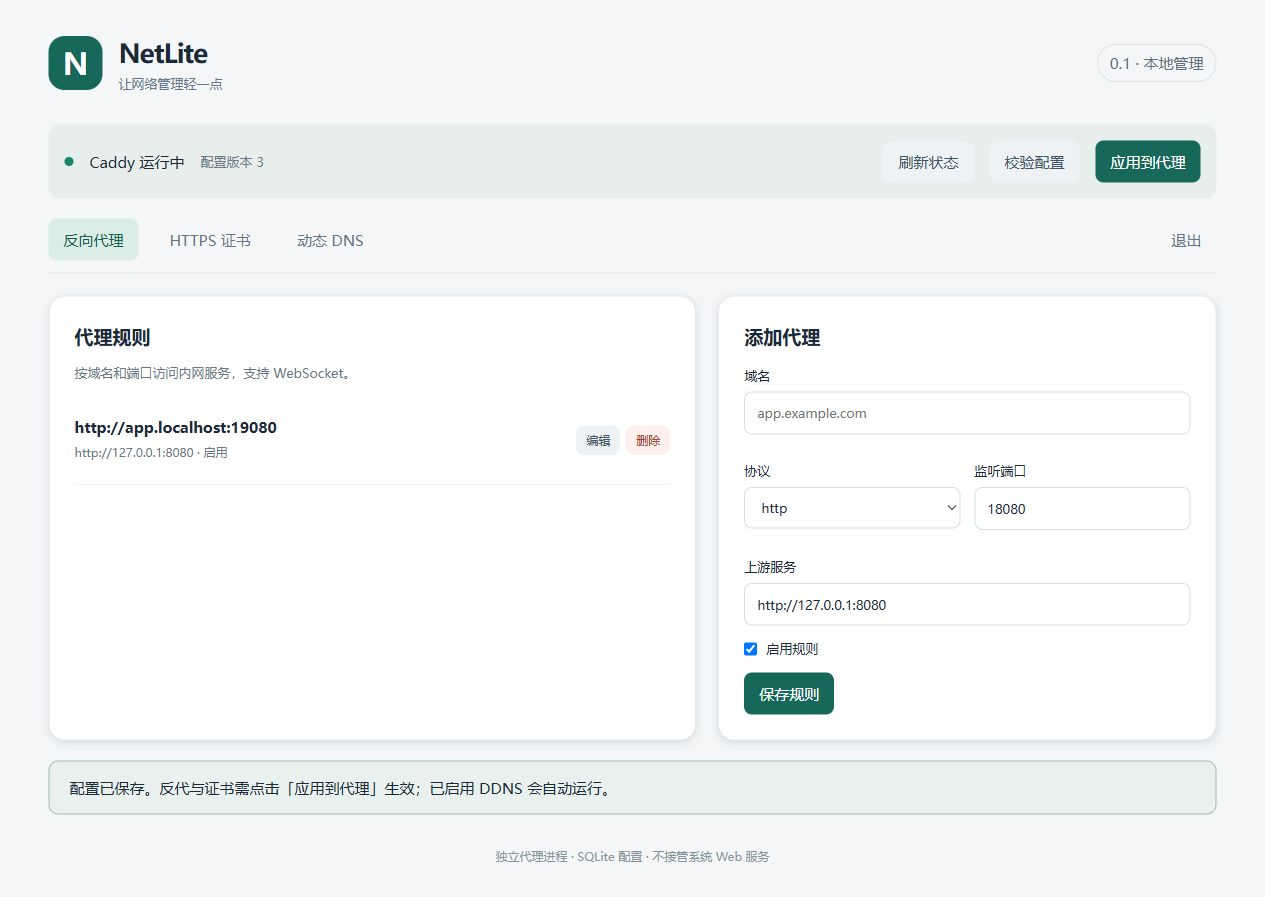
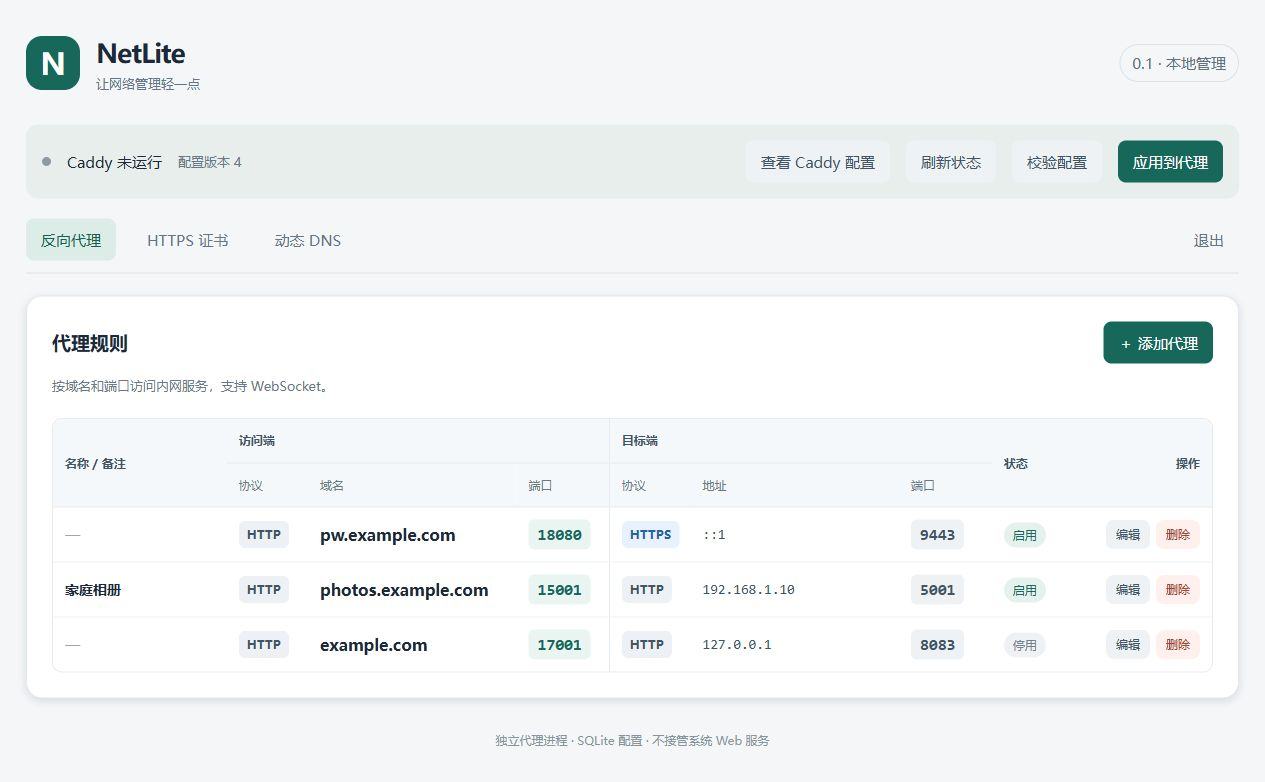
feat: improve proxy management UI and add Caddy configuration view

diff --git a/web/src/App.vue b/web/src/App.vue
@@ -1,43 +1,62 @@
 <script setup lang="ts">
-import {ref, onMounted} from 'vue'
-type Route={id:string;domain:string;port:number;scheme:string;upstream:string;certificate_id:string;enabled:boolean}
+import {ref, onMounted, nextTick} from 'vue'
+import {splitTarget, joinTarget} from './proxy-address'
+import {readAPIResponse} from './api-response'
+type Route={id:string;name?:string;domain:string;port:number;scheme:string;upstream:string;certificate_id:string;enabled:boolean}
 type Cert={id:string;domains:string[];mode:string;email:string;provider:string;token_env:string;staging:boolean}
 type DDNS={id:string;provider:string;zone_id:string;record_id:string;name:string;type:string;ip:string;token_env:string;interval_seconds:number;enabled:boolean}
 type Config={revision:number;routes:Route[];certificates:Cert[];ddns:DDNS[]}
 const token=ref(''),logged=ref(false),busy=ref(false),message=ref(''),tab=ref('routes'),status=ref<{proxy?:{running:boolean;modules?:string[]};ddns?:Record<string,{ok:boolean;message:string;ip:string;at:string}>}>({})
 const config=ref<Config>({revision:0,routes:[],certificates:[],ddns:[]})
 const route=ref<Route>(newRoute()),cert=ref<Cert>(newCert()),dns=ref<DDNS>(newDNS()),domains=ref(''),editing=ref(false)
+const target=ref(splitTarget(route.value.upstream))
+const editor=ref<HTMLDialogElement>(), viewer=ref<HTMLDialogElement>(), deletion=ref<HTMLDialogElement>()
+const copyMessage=ref('')
+const modalError=ref(''), viewError=ref(''), viewBusy=ref(false), viewTab=ref<'draft'|'applied'>('draft')
+const caddyView=ref<{draft:unknown;applied:unknown}>({draft:null,applied:null})
+const pendingDelete=ref<{kind:'routes'|'certificates'|'ddns';key:string;name:string}>()
+function closeEditor(){if(!busy.value)editor.value?.close()}
+async function openEditor(){modalError.value=''; await nextTick(); editor.value?.showModal();editor.value?.querySelector<HTMLElement>('select,input')?.focus()}
+function add(){editing.value=false;route.value=newRoute();target.value=splitTarget(route.value.upstream);cert.value=newCert();dns.value=newDNS();domains.value='';openEditor()}
+function askDelete(kind:'routes'|'certificates'|'ddns',key:string,name:string){pendingDelete.value={kind,key,name};modalError.value='';deletion.value?.showModal()}
+async function showCaddy(){viewer.value?.showModal();await loadCaddy()}
+async function loadCaddy(){copyMessage.value='';viewBusy.value=true;viewError.value='';try{caddyView.value=await api('/proxy/config')}catch(e){caddyView.value={draft:null,applied:null};viewError.value=e instanceof Error?e.message:String(e)}finally{viewBusy.value=false}}
+async function copyConfig(){try{await navigator.clipboard.writeText(JSON.stringify(caddyView.value[viewTab.value],null,2));copyMessage.value='配置已复制'}catch{viewError.value='浏览器不支持复制，请选择配置文本手动复制。'}}
 function logout(){logged.value=false;token.value='';sessionStorage.removeItem('netlite-token')}
 function id(){return Array.from(crypto.getRandomValues(new Uint8Array(8)),b=>b.toString(16).padStart(2,'0')).join('')}
-function newRoute():Route{return {id:id(),domain:'',port:18080,scheme:'http',upstream:'http://127.0.0.1:8080',certificate_id:'',enabled:true}}
+function newRoute():Route{return {id:id(),name:'',domain:'',port:18080,scheme:'http',upstream:'http://127.0.0.1:8080',certificate_id:'',enabled:true}}
 function newCert():Cert{return {id:id(),domains:[],mode:'internal',email:'',provider:'cloudflare',token_env:'NETLITE_CF_TOKEN',staging:true}}
 function newDNS():DDNS{return {id:id(),provider:'cloudflare',zone_id:'',record_id:'',name:'',type:'A',ip:'',token_env:'NETLITE_CF_TOKEN',interval_seconds:300,enabled:false}}
-async function api<T>(url:string,method='GET',body?:unknown):Promise<T>{const r=await fetch('/api'+url,{method,headers:{Authorization:'Bearer '+token.value,'Content-Type':'application/json'},body:body===undefined?undefined:JSON.stringify(body)});const result=await r.json();if(!r.ok)throw new Error(result.error||r.statusText);return result}
+async function api<T>(url:string,method='GET',body?:unknown):Promise<T>{const r=await fetch('/api'+url,{method,headers:{Authorization:'Bearer '+token.value,'Content-Type':'application/json'},body:body===undefined?undefined:JSON.stringify(body)});return readAPIResponse<T>(r,url)}
 async function action(fn:()=>Promise<void>){busy.value=true;message.value='';try{await fn()}catch(e){message.value=e instanceof Error?e.message:String(e)}finally{busy.value=false}}
 async function refresh(){status.value=await api('/status')}
 async function login(){await action(async()=>{config.value=await api('/config');logged.value=true;sessionStorage.setItem('netlite-token',token.value);await refresh()})}
 async function save(){config.value=await api('/config','PUT',config.value);message.value='配置已保存。反代与证书需点击「应用到代理」生效；已启用 DDNS 会自动运行。'}
-function editRoute(x:Route){route.value={...x};editing.value=true}
-function editCert(x:Cert){cert.value={...x,domains:[...x.domains]};domains.value=x.domains.join(', ');editing.value=true}
-function editDNS(x:DDNS){dns.value={...x};editing.value=true}
+function editRoute(x:Route){route.value={...x};target.value=splitTarget(x.upstream);editing.value=true;openEditor()}
+function editCert(x:Cert){cert.value={...x,domains:[...x.domains]};domains.value=x.domains.join(', ');editing.value=true;openEditor()}
+function editDNS(x:DDNS){dns.value={...x};editing.value=true;openEditor()}
 function upsert<T extends {id:string}>(list:T[],x:T){const i=list.findIndex(a=>a.id===x.id);if(i<0)list.push(x);else list[i]=x}
-async function submitRoute(){await action(async()=>{const old=JSON.parse(JSON.stringify(config.value));upsert(config.value.routes,{...route.value});try{await save();route.value=newRoute();editing.value=false}catch(e){config.value=old;throw e}})}
-async function submitCert(){await action(async()=>{const old=JSON.parse(JSON.stringify(config.value));upsert(config.value.certificates,{...cert.value,domains:domains.value.split(/[,\s]+/).filter(Boolean)});try{await save();cert.value=newCert();domains.value='';editing.value=false}catch(e){config.value=old;throw e}})}
-async function submitDNS(){await action(async()=>{const old=JSON.parse(JSON.stringify(config.value));upsert(config.value.ddns,{...dns.value});try{await save();dns.value=newDNS();editing.value=false}catch(e){config.value=old;throw e}})}
-async function remove(kind:'routes'|'certificates'|'ddns',key:string){await action(async()=>{const old=JSON.parse(JSON.stringify(config.value));config.value[kind]=config.value[kind].filter(x=>x.id!==key) as Route[]&Cert[]&DDNS[];try{await save()}catch(e){config.value=old;throw e}})}
+async function submitRoute(){modalError.value='';try{route.value.upstream=joinTarget(target.value)}catch(e){modalError.value=e instanceof Error?e.message:String(e);return}await action(async()=>{const old=JSON.parse(JSON.stringify(config.value));upsert(config.value.routes,{...route.value});try{await save();route.value=newRoute();editing.value=false;editor.value?.close()}catch(e){config.value=old;modalError.value=e instanceof Error?e.message:String(e);throw e}})}
+async function submitCert(){modalError.value='';await action(async()=>{const old=JSON.parse(JSON.stringify(config.value));upsert(config.value.certificates,{...cert.value,domains:domains.value.split(/[,\s]+/).filter(Boolean)});try{await save();cert.value=newCert();domains.value='';editing.value=false;editor.value?.close()}catch(e){config.value=old;modalError.value=e instanceof Error?e.message:String(e);throw e}})}
+async function submitDNS(){modalError.value='';await action(async()=>{const old=JSON.parse(JSON.stringify(config.value));upsert(config.value.ddns,{...dns.value});try{await save();dns.value=newDNS();editing.value=false;editor.value?.close()}catch(e){config.value=old;modalError.value=e instanceof Error?e.message:String(e);throw e}})}
+async function remove(kind:'routes'|'certificates'|'ddns',key:string){await action(async()=>{const old=JSON.parse(JSON.stringify(config.value));config.value[kind]=config.value[kind].filter(x=>x.id!==key) as Route[]&Cert[]&DDNS[];try{await save();deletion.value?.close()}catch(e){config.value=old;modalError.value=e instanceof Error?e.message:String(e);throw e}})}
 onMounted(()=>{token.value=sessionStorage.getItem('netlite-token')||'';if(token.value)login()})
 </script>
 <template>
  <main><header><div class="brand"><span class="logo">N</span><div><h1>NetLite</h1><p>让网络管理轻一点</p></div></div><span class="badge">0.1 · 本地管理</span></header>
  <section v-if="!logged" class="login card"><h2>进入管理面板</h2><p>输入应用私有数据目录中 admin-token 文件的管理令牌。</p><form @submit.prevent="login"><label>管理令牌<input v-model="token" type="password" autocomplete="current-password" required></label><button :disabled="busy">登录</button></form></section>
  <template v-else>
- <div class="toolbar"><span :class="['dot',status.proxy?.running?'on':'']"></span><span>Caddy {{status.proxy?.running?'运行中':'未运行'}}</span><span class="muted">配置版本 {{config.revision}}</span><button class="secondary" :disabled="busy" @click="action(refresh)">刷新状态</button><button class="secondary" :disabled="busy" @click="action(async()=>{await api('/proxy/validate','POST');message='配置校验通过'})">校验配置</button><button :disabled="busy" @click="action(async()=>{const r=await api<{applied_revision:number}>('/proxy/apply','POST');message='已应用版本 '+r.applied_revision+'；证书签发与续期由 Caddy 异步执行';await refresh()})">应用到代理</button></div>
+ <div class="toolbar"><span :class="['dot',status.proxy?.running?'on':'']"></span><span>Caddy {{status.proxy?.running?'运行中':'未运行'}}</span><span class="muted">配置版本 {{config.revision}}</span><button class="secondary" :disabled="busy" @click="showCaddy">查看 Caddy 配置</button><button class="secondary" :disabled="busy" @click="action(refresh)">刷新状态</button><button class="secondary" :disabled="busy" @click="action(async()=>{await api('/proxy/validate','POST');message='配置校验通过'})">校验配置</button><button :disabled="busy" @click="action(async()=>{const r=await api<{applied_revision:number}>('/proxy/apply','POST');message='已应用版本 '+r.applied_revision+'；证书签发与续期由 Caddy 异步执行';await refresh()})">应用到代理</button></div>
  <nav><button v-for="[key,title] in [['routes','反向代理'],['certificates','HTTPS 证书'],['ddns','动态 DNS']]" :class="{active:tab===key}" @click="tab=key!;editing=false">{{title}}</button><button class="logout" @click="logout">退出</button></nav>
- <div v-if="tab==='routes'" class="grid"><section class="card"><h2>代理规则</h2><p class="muted">按域名和端口访问内网服务，支持 WebSocket。</p><p v-if="!config.routes.length" class="empty">还没有规则，从右侧添加第一个服务。</p><article v-for="r in config.routes" :key="r.id"><div><strong>{{r.scheme}}://{{r.domain}}:{{r.port}}</strong><p>{{r.upstream}} · {{r.enabled?'启用':'停用'}}</p></div><div class="small-actions"><button class="secondary" @click="editRoute(r)">编辑</button><button class="danger" :disabled="busy" @click="remove('routes',r.id)">删除</button></div></article></section>
- <section class="card"><h2>{{editing?'编辑':'添加'}}代理</h2><form @submit.prevent="submitRoute"><label>域名<input v-model="route.domain" placeholder="app.example.com" required></label><div class="fields"><label>协议<select v-model="route.scheme"><option>http</option><option>https</option></select></label><label>监听端口<input v-model.number="route.port" type="number" min="1024" max="65535" required></label></div><label>上游服务<input v-model="route.upstream" required></label><label v-if="route.scheme==='https'">证书策略<select v-model="route.certificate_id" required><option value="">请选择覆盖该域名的证书</option><option v-for="c in config.certificates" :value="c.id">{{c.domains.join(', ')}}</option></select></label><label class="check"><input v-model="route.enabled" type="checkbox">启用规则</label><button :disabled="busy">保存规则</button></form></section></div>
- <div v-if="tab==='certificates'" class="grid"><section class="card"><h2>证书策略</h2><p class="muted">Caddy 自动签发和续期。DNS-01 泛域名需要对应插件和凭据。</p><article v-for="c in config.certificates" :key="c.id"><div><strong>{{c.domains.join(', ')}}</strong><p>{{c.mode}} {{c.mode!=='internal'?(c.staging?'· 测试 CA':'· 正式 CA'):''}}</p></div><div class="small-actions"><button class="secondary" @click="editCert(c)">编辑</button><button class="danger" :disabled="busy" @click="remove('certificates',c.id)">删除</button></div></article><aside>应用成功仅表示配置生效。签发失败和续期信息见应用数据目录 caddy.log。内部证书需客户端自行信任。</aside></section>
- <section class="card"><h2>{{editing?'编辑':'添加'}}证书策略</h2><form @submit.prevent="submitCert"><label>域名（逗号分隔）<input v-model="domains" placeholder="*.example.com, example.com" required></label><label>签发方式<select v-model="cert.mode"><option value="internal">内部 CA（本地测试）</option><option value="acme">ACME（HTTP / TLS-ALPN）</option><option value="dns">DNS-01（Cloudflare 插件）</option></select></label><label v-if="cert.mode!=='internal'">联系邮箱<input v-model="cert.email" type="email"></label><label v-if="cert.mode==='dns'">令牌环境变量名<input v-model="cert.token_env" required></label><label v-if="cert.mode!=='internal'" class="check"><input v-model="cert.staging" type="checkbox">使用 Let's Encrypt 测试 CA</label><p class="muted">ACME 端口验证需公网 80/443 映射到应用端口。DNS-01 无需开放验证端口。</p><button :disabled="busy">保存策略</button></form></section></div>
- <div v-if="tab==='ddns'" class="grid"><section class="card"><h2>动态 DNS</h2><p class="muted">Cloudflare A / AAAA 记录定时同步，保留现有 TTL 和代理开关。</p><article v-for="d in config.ddns" :key="d.id"><div><strong>{{d.name}} · {{d.type}}</strong><p>{{d.enabled?'启用':'停用'}} · 每 {{d.interval_seconds}} 秒</p><p v-if="status.ddns?.[d.id]">{{status.ddns[d.id]?.ok?'✓':'!'}} {{status.ddns[d.id]?.message}} {{status.ddns[d.id]?.ip}}</p></div><div class="small-actions"><button class="secondary" @click="editDNS(d)">编辑</button><button class="secondary" :disabled="busy||!d.enabled" @click="action(async()=>{await api('/ddns/'+d.id+'/run','POST');await refresh();message='DDNS 已执行，请查看结果'})">立即同步</button><button class="danger" :disabled="busy" @click="remove('ddns',d.id)">删除</button></div></article></section>
- <section class="card"><h2>{{editing?'编辑':'添加'}} DDNS</h2><form @submit.prevent="submitDNS"><label>记录域名<input v-model="dns.name" required></label><div class="fields"><label>记录类型<select v-model="dns.type"><option>A</option><option>AAAA</option></select></label><label>更新间隔（秒）<input v-model.number="dns.interval_seconds" type="number" min="60" max="86400" required></label></div><label>Zone ID<input v-model="dns.zone_id" required></label><label>Record ID<input v-model="dns.record_id" required></label><label>令牌环境变量名<input v-model="dns.token_env" required></label><label>指定 IP（留空自动发现）<input v-model="dns.ip" placeholder="自动发现 IPv4 / IPv6 公网地址"></label><label class="check"><input v-model="dns.enabled" type="checkbox">保存后启用自动更新</label><p class="muted">凭据在启动环境中配置；界面不存储 API 密钥。</p><button :disabled="busy">保存 DDNS</button></form></section></div>
+ <div v-if="tab==='routes'" class="content-list"><section class="card"><div class="section-head"><h2>代理规则</h2><button :disabled="busy" @click="add">＋ 添加代理</button></div><p class="muted">按域名和端口访问内网服务，支持 WebSocket。</p><p v-if="!config.routes.length" class="empty">还没有规则，点击「添加代理」开始。</p><div v-if="config.routes.length" class="proxy-table-wrap" tabindex="0" aria-label="代理规则表格，窄屏可左右滚动"><table class="proxy-table"><colgroup><col class="name-col"><col class="protocol-col"><col class="address-col"><col class="port-col"><col class="protocol-col"><col class="address-col"><col class="port-col"><col class="status-col"><col class="actions-col"></colgroup><thead><tr class="group-heading"><th scope="col" rowspan="2">名称 / 备注</th><th scope="colgroup" colspan="3">访问端</th><th scope="colgroup" colspan="3" class="target-start">目标端</th><th scope="col" rowspan="2">状态</th><th scope="col" rowspan="2" class="actions-heading">操作</th></tr><tr><th scope="col">协议</th><th scope="col">域名</th><th scope="col">端口</th><th scope="col" class="target-start">协议</th><th scope="col">地址</th><th scope="col">端口</th></tr></thead><tbody><tr v-for="r in config.routes" :key="r.id"><td><span :class="['route-name',{unnamed:!r.name}]">{{r.name || '—'}}</span></td><td><span :class="['protocol-badge',r.scheme]">{{r.scheme.toUpperCase()}}</span></td><td><strong class="domain-name">{{r.domain}}</strong></td><td><span class="port-number">{{r.port}}</span></td><td class="target-start"><span :class="['protocol-badge',splitTarget(r.upstream).scheme]">{{splitTarget(r.upstream).scheme.toUpperCase()}}</span></td><td><span class="target-address">{{splitTarget(r.upstream).address}}</span></td><td><span class="port-number target-port">{{splitTarget(r.upstream).port}}</span></td><td><span :class="['route-status',r.enabled?'enabled':'disabled']">{{r.enabled?'启用':'停用'}}</span></td><td><div class="small-actions"><button class="secondary" :disabled="busy" :aria-label="'编辑 '+r.domain+':'+r.port" @click="editRoute(r)">编辑</button><button class="danger" :disabled="busy" :aria-label="'删除 '+r.domain+':'+r.port" @click="askDelete('routes',r.id,(r.name?r.name+' · ':'')+r.domain+':'+r.port)">删除</button></div></td></tr></tbody></table></div></section>
+ </div>
+ <div v-if="tab==='certificates'" class="content-list"><section class="card"><div class="section-head"><h2>证书策略</h2><button :disabled="busy" @click="add">＋ 添加证书</button></div><p class="muted">Caddy 自动签发和续期。DNS-01 泛域名需要对应插件和凭据。</p><p v-if="!config.certificates.length" class="empty">暂无内容，点击上方添加按钮开始。</p><article v-for="c in config.certificates" :key="c.id"><div><strong>{{c.domains.join(', ')}}</strong><p>{{c.mode}} {{c.mode!=='internal'?(c.staging?'· 测试 CA':'· 正式 CA'):''}}</p></div><div class="small-actions"><button class="secondary" @click="editCert(c)">编辑</button><button class="danger" :disabled="busy" @click="askDelete('certificates',c.id,c.domains.join(', '))">删除</button></div></article><aside>应用成功仅表示配置生效。签发失败和续期信息见应用数据目录 caddy.log。内部证书需客户端自行信任。</aside></section>
+ </div>
+ <div v-if="tab==='ddns'" class="content-list"><section class="card"><div class="section-head"><h2>动态 DNS</h2><button :disabled="busy" @click="add">＋ 添加 DDNS</button></div><p class="muted">Cloudflare A / AAAA 记录定时同步，保留现有 TTL 和代理开关。</p><p v-if="!config.ddns.length" class="empty">暂无内容，点击上方添加按钮开始。</p><article v-for="d in config.ddns" :key="d.id"><div><strong>{{d.name}} · {{d.type}}</strong><p>{{d.enabled?'启用':'停用'}} · 每 {{d.interval_seconds}} 秒</p><p v-if="status.ddns?.[d.id]">{{status.ddns[d.id]?.ok?'✓':'!'}} {{status.ddns[d.id]?.message}} {{status.ddns[d.id]?.ip}}</p></div><div class="small-actions"><button class="secondary" @click="editDNS(d)">编辑</button><button class="secondary" :disabled="busy||!d.enabled" @click="action(async()=>{await api('/ddns/'+d.id+'/run','POST');await refresh();message='DDNS 已执行，请查看结果'})">立即同步</button><button class="danger" :disabled="busy" @click="askDelete('ddns',d.id,d.name)">删除</button></div></article></section>
+ </div>
+
+ <dialog ref="editor" class="editor-dialog" aria-labelledby="editor-title" @cancel="busy && $event.preventDefault()"><section v-if="tab==='routes'"><div class="dialog-head"><h2 id="editor-title">{{editing?'编辑':'添加'}}代理</h2><button type="button" class="icon-button" aria-label="关闭" :disabled="busy" @click="closeEditor">×</button></div><form @submit.prevent="submitRoute"><label>名称 / 备注（选填）<input v-model="route.name" placeholder="例如：家庭相册、下载工具"></label><fieldset class="endpoint-fields"><legend>访问端</legend><div class="endpoint-row"><label>访问协议<select v-model="route.scheme"><option value="http">HTTP</option><option value="https">HTTPS</option></select></label><label>访问域名<input v-model="route.domain" placeholder="app.example.com" required></label><label>访问端口<input v-model.number="route.port" type="number" min="1024" max="65535" required></label></div></fieldset><fieldset class="endpoint-fields"><legend>目标端</legend><div class="endpoint-row"><label>目标协议<select v-model="target.scheme"><option value="http">HTTP</option><option value="https">HTTPS</option></select></label><label>目标地址<input v-model="target.address" placeholder="192.168.1.10 或 service.local" required></label><label>目标端口<input v-model.number="target.port" type="number" min="1" max="65535" required></label></div><p class="muted">目标地址填写实际提供服务的 IP 或域名。127.0.0.1 表示运行 NetLite 的这台设备。</p></fieldset><label v-if="route.scheme==='https'">证书策略<select v-model="route.certificate_id" required><option value="">请选择覆盖该域名的证书</option><option v-for="c in config.certificates" :value="c.id">{{c.domains.join(', ')}}</option></select></label><label class="check"><input v-model="route.enabled" type="checkbox">启用规则</label><p v-if="modalError" class="form-error" role="alert">{{modalError}}</p><div class="dialog-actions"><button type="button" class="secondary" :disabled="busy" @click="closeEditor">取消</button><button :disabled="busy">保存规则</button></div></form></section><section v-if="tab==='certificates'"><div class="dialog-head"><h2 id="editor-title">{{editing?'编辑':'添加'}}证书策略</h2><button type="button" class="icon-button" aria-label="关闭" :disabled="busy" @click="closeEditor">×</button></div><form @submit.prevent="submitCert"><label>域名（逗号分隔）<input v-model="domains" placeholder="*.example.com, example.com" required></label><label>签发方式<select v-model="cert.mode"><option value="internal">内部 CA（本地测试）</option><option value="acme">ACME（HTTP / TLS-ALPN）</option><option value="dns">DNS-01（Cloudflare 插件）</option></select></label><label v-if="cert.mode!=='internal'">联系邮箱<input v-model="cert.email" type="email"></label><label v-if="cert.mode==='dns'">令牌环境变量名<input v-model="cert.token_env" required></label><label v-if="cert.mode!=='internal'" class="check"><input v-model="cert.staging" type="checkbox">使用 Let's Encrypt 测试 CA</label><p class="muted">ACME 端口验证需公网 80/443 映射到应用端口。DNS-01 无需开放验证端口。</p><p v-if="modalError" class="form-error" role="alert">{{modalError}}</p><div class="dialog-actions"><button type="button" class="secondary" :disabled="busy" @click="closeEditor">取消</button><button :disabled="busy">保存策略</button></div></form></section><section v-if="tab==='ddns'"><div class="dialog-head"><h2 id="editor-title">{{editing?'编辑':'添加'}} DDNS</h2><button type="button" class="icon-button" aria-label="关闭" :disabled="busy" @click="closeEditor">×</button></div><form @submit.prevent="submitDNS"><label>记录域名<input v-model="dns.name" required></label><div class="fields"><label>记录类型<select v-model="dns.type"><option>A</option><option>AAAA</option></select></label><label>更新间隔（秒）<input v-model.number="dns.interval_seconds" type="number" min="60" max="86400" required></label></div><label>Zone ID<input v-model="dns.zone_id" required></label><label>Record ID<input v-model="dns.record_id" required></label><label>令牌环境变量名<input v-model="dns.token_env" required></label><label>指定 IP（留空自动发现）<input v-model="dns.ip" placeholder="自动发现 IPv4 / IPv6 公网地址"></label><label class="check"><input v-model="dns.enabled" type="checkbox">保存后启用自动更新</label><p class="muted">凭据在启动环境中配置；界面不存储 API 密钥。</p><p v-if="modalError" class="form-error" role="alert">{{modalError}}</p><div class="dialog-actions"><button type="button" class="secondary" :disabled="busy" @click="closeEditor">取消</button><button :disabled="busy">保存 DDNS</button></div></form></section></dialog>
+ <dialog ref="deletion" class="delete-dialog" aria-labelledby="delete-title" @cancel="busy && $event.preventDefault()"><div class="dialog-head"><h2 id="delete-title">确认删除</h2></div><p>确定删除「{{pendingDelete?.name}}」？</p><p class="muted">{{pendingDelete?.kind==='ddns'?'删除后将停止该记录的自动更新。':'删除后需应用到代理，反代与证书的变更才会生效。'}}</p><p v-if="modalError" class="form-error" role="alert">{{modalError}}</p><div class="dialog-actions"><button class="secondary" :disabled="busy" @click="deletion?.close()">取消</button><button class="danger" :disabled="busy" @click="pendingDelete && remove(pendingDelete.kind,pendingDelete.key)">确认删除</button></div></dialog>
+ <dialog ref="viewer" class="config-dialog" aria-labelledby="config-title"><div class="dialog-head"><h2 id="config-title">Caddy 配置</h2><button class="icon-button" aria-label="关闭配置" @click="viewer?.close()">×</button></div><p class="muted">草稿由当前保存的规则生成；已应用配置为最近成功应用后保存的配置。凭据已隐藏。</p><div class="config-toolbar"><button :class="['secondary',{selected:viewTab==='draft'}]" @click="viewTab='draft'">配置草稿</button><button :class="['secondary',{selected:viewTab==='applied'}]" @click="viewTab='applied'">已应用配置</button><button class="secondary" :disabled="viewBusy" @click="loadCaddy">刷新</button><button class="secondary" :disabled="viewBusy||!caddyView[viewTab]" @click="copyConfig">复制配置</button></div><p v-if="copyMessage" class="muted" role="status">{{copyMessage}}</p><p v-if="viewError" class="form-error" role="alert">{{viewError}}</p><p v-if="viewBusy" class="empty">正在加载配置…</p><pre v-else-if="caddyView[viewTab]" tabindex="0">{{JSON.stringify(caddyView[viewTab],null,2)}}</pre><p v-else-if="!viewError" class="empty">{{viewTab==='applied'?'尚未应用过配置。':'暂无配置草稿。'}}</p><div class="dialog-actions"><button @click="viewer?.close()">关闭</button></div></dialog>
  </template><div v-if="message" class="message" role="status">{{message}}</div><footer>独立代理进程 · SQLite 配置 · 不接管系统 Web 服务</footer></main>
 </template>

diff --git a/web/src/style.css b/web/src/style.css
@@ -1,1 +1,11 @@
-*{box-sizing:border-box}body{margin:0;background:#f4f6f8;color:#1d2939;font:15px/1.6 Inter,"Microsoft YaHei",sans-serif}main{max-width:1220px;margin:auto;padding:32px 26px}header,.brand,.toolbar,article,nav{display:flex;align-items:center;gap:16px}header{justify-content:space-between;margin-bottom:30px}.logo{display:grid;place-items:center;background:#17675b;color:white;border-radius:16px;width:54px;height:54px;font-size:30px;font-weight:700}h1{margin:0;font-size:26px;letter-spacing:-1px}h2{font-size:19px;margin:0 0 10px}p{margin:5px 0 14px}.brand p{margin:0;color:#64748b;font-size:13px}.badge{border:1px solid #dae3e8;padding:6px 12px;border-radius:30px;color:#617080}.toolbar{flex-wrap:wrap;background:#e7eeec;border-radius:12px;padding:16px;margin-bottom:20px}.dot{width:9px;height:9px;border-radius:50%;background:#8c9aa5}.dot.on{background:#19856c}.muted{color:#697786;font-size:13px}.toolbar .muted{margin-right:auto}.grid{display:grid;grid-template-columns:1.3fr 1fr;gap:22px}.card{background:white;border:1px solid #e3e8ed;border-radius:16px;padding:25px;box-shadow:0 2px 8px #1232}.login{max-width:480px;margin:70px auto}nav{margin-bottom:22px;border-bottom:1px solid #dce3e8;padding-bottom:12px}nav button{background:transparent;color:#657487}nav .active{background:#dcece6;color:#145f50}nav .logout{margin-left:auto}button{font:inherit;background:#17675b;color:white;border:0;border-radius:8px;padding:9px 15px;cursor:pointer}button:disabled{opacity:.5;cursor:wait}button.secondary{background:#eef2f5;color:#405465}.danger{background:#fff0ed;color:#a33f31}.small-actions{display:flex;gap:6px;flex-wrap:wrap}.small-actions button{padding:5px 10px;font-size:12px}article{justify-content:space-between;border-bottom:1px solid #eef0f2;padding:18px 0;overflow-wrap:anywhere}article p{font-size:12px;color:#697786;margin:4px 0}label{display:block;font-size:13px;font-weight:500;margin:13px 0}input,select{display:block;width:100%;font:inherit;border:1px solid #d5dee5;border-radius:8px;padding:10px 12px;margin-top:6px;background:white;color:#1d2939}input:focus,select:focus{outline:2px solid #98c7b6;border-color:transparent}.fields{display:flex;gap:14px}.fields label{flex:1;min-width:0}.check{display:flex;align-items:center;gap:9px}.check input{width:auto;margin:0}aside,.empty{background:#f5f8fa;border-radius:10px;padding:16px;color:#67788a;font-size:13px;margin-top:20px}.message{background:#e8f1ed;border:1px solid #a1bcb0;border-radius:10px;padding:14px 20px;margin-top:20px;white-space:pre-wrap}footer{text-align:center;color:#8794a0;font-size:12px;margin-top:32px}@media(max-width:820px){.grid{grid-template-columns:1fr}.toolbar{gap:10px}main{padding:20px 14px}.badge{display:none}article{align-items:flex-start;flex-direction:column}}
+*{box-sizing:border-box}body{margin:0;background:#f4f6f8;color:#1d2939;font:15px/1.6 Inter,"Microsoft YaHei",sans-serif}main{max-width:1440px;margin:auto;padding:32px 26px}header,.brand,.toolbar,article,nav{display:flex;align-items:center;gap:16px}header{justify-content:space-between;margin-bottom:30px}.logo{display:grid;place-items:center;background:#17675b;color:white;border-radius:16px;width:54px;height:54px;font-size:30px;font-weight:700}h1{margin:0;font-size:26px;letter-spacing:-1px}h2{font-size:19px;margin:0 0 10px}p{margin:5px 0 14px}.brand p{margin:0;color:#64748b;font-size:13px}.badge{border:1px solid #dae3e8;padding:6px 12px;border-radius:30px;color:#617080}.toolbar{flex-wrap:wrap;background:#e7eeec;border-radius:12px;padding:16px;margin-bottom:20px}.dot{width:9px;height:9px;border-radius:50%;background:#8c9aa5}.dot.on{background:#19856c}.muted{color:#697786;font-size:13px}.toolbar .muted{margin-right:auto}.grid{display:grid;grid-template-columns:1.3fr 1fr;gap:22px}.card{background:white;border:1px solid #e3e8ed;border-radius:16px;padding:25px;box-shadow:0 2px 8px #1232}.login{max-width:480px;margin:70px auto}nav{margin-bottom:22px;border-bottom:1px solid #dce3e8;padding-bottom:12px}nav button{background:transparent;color:#657487}nav .active{background:#dcece6;color:#145f50}nav .logout{margin-left:auto}button{font:inherit;background:#17675b;color:white;border:0;border-radius:8px;padding:9px 15px;cursor:pointer}button:disabled{opacity:.5;cursor:wait}button.secondary{background:#eef2f5;color:#405465}.danger{background:#fff0ed;color:#a33f31}.small-actions{display:flex;gap:6px;flex-wrap:wrap}.small-actions button{padding:5px 10px;font-size:12px}article{justify-content:space-between;border-bottom:1px solid #eef0f2;padding:18px 0;overflow-wrap:anywhere}article p{font-size:12px;color:#697786;margin:4px 0}label{display:block;font-size:13px;font-weight:500;margin:13px 0}input,select{display:block;width:100%;font:inherit;border:1px solid #d5dee5;border-radius:8px;padding:10px 12px;margin-top:6px;background:white;color:#1d2939}input:focus,select:focus{outline:2px solid #98c7b6;border-color:transparent}.fields{display:flex;gap:14px}.fields label{flex:1;min-width:0}.check{display:flex;align-items:center;gap:9px}.check input{width:auto;margin:0}aside,.empty{background:#f5f8fa;border-radius:10px;padding:16px;color:#67788a;font-size:13px;margin-top:20px}.message{background:#e8f1ed;border:1px solid #a1bcb0;border-radius:10px;padding:14px 20px;margin-top:20px;white-space:pre-wrap}footer{text-align:center;color:#8794a0;font-size:12px;margin-top:32px}@media(max-width:820px){.grid{grid-template-columns:1fr}.toolbar{gap:10px}main{padding:20px 14px}.badge{display:none}article{align-items:flex-start;flex-direction:column}}
+.content-list{width:100%}.section-head,.dialog-head,.dialog-actions,.config-toolbar{display:flex;align-items:center;gap:12px}.section-head{justify-content:space-between;margin-bottom:12px}.section-head h2,.dialog-head h2{margin:0}.dialog-head{justify-content:space-between;margin-bottom:20px}.dialog-actions{justify-content:flex-end;margin-top:24px;padding-top:18px;border-top:1px solid #e6ebee}.content-list article{padding:22px 0}.content-list .card{min-height:300px}dialog{border:1px solid #dfe7e6;border-radius:16px;padding:26px;color:#1d2939;box-shadow:0 24px 80px #102e3b38;max-height:88vh;overflow:auto;width:calc(100% - 32px)}dialog::backdrop{background:#102e3b66;backdrop-filter:blur(2px)}.editor-dialog{max-width:760px}.delete-dialog{max-width:440px}.config-dialog{max-width:960px}.icon-button{background:transparent;color:#687b88;font-size:25px;padding:0 8px;line-height:1.2}.form-error{background:#fff0ed;color:#a33f31;padding:12px;border-radius:8px}.config-toolbar{flex-wrap:wrap;margin-bottom:18px}.config-toolbar .selected{background:#dcece6;color:#145f50}.config-dialog pre{max-height:52vh;overflow:auto;background:#132c36;color:#e5f1ed;border-radius:10px;padding:20px;font:13px/1.6 Consolas,monospace;white-space:pre;tab-size:2}.content-list strong{font-size:16px}button:focus-visible{outline:3px solid #75b6a5;outline-offset:3px}@media(max-width:600px){dialog{padding:20px}.section-head{align-items:flex-start}.section-head button{font-size:13px}.toolbar .muted{width:50%}}
+
+/* Keep domains and ports aligned for scanning across rules. */
+.proxy-table-wrap{overflow-x:auto;margin-top:22px;border:1px solid #e6ebee;border-radius:10px}.proxy-table{width:100%;min-width:1140px;border-collapse:collapse;text-align:left;table-layout:fixed}.proxy-table th{background:#f5f8fa;color:#6a7886;font-size:12px;font-weight:500;padding:12px 16px;border-bottom:1px solid #e6ebee}.proxy-table td{padding:16px;border-bottom:1px solid #eef1f3;vertical-align:middle}.proxy-table tr:last-child td{border-bottom:0}.proxy-table tbody tr:hover{background:#f9fbfa}.content-list .domain-name{display:block;font-size:16px;font-weight:650;overflow-wrap:anywhere}.protocol-label{display:block;font-size:11px;color:#8794a0;margin-top:3px;letter-spacing:.4px}.port-number{display:inline-block;font:600 16px/1.5 Consolas,monospace;color:#17675b;background:#eaf4f0;padding:3px 9px;border-radius:6px;font-variant-numeric:tabular-nums}.target-address{display:block;font:14px/1.5 Consolas,"Microsoft YaHei",monospace;overflow-wrap:anywhere;color:#405465}.route-status{font-size:12px;border-radius:20px;padding:3px 9px;white-space:nowrap;display:inline-block}.route-status.enabled{color:#17675b;background:#e5f1ec}.route-status.disabled{color:#71808d;background:#eef2f5}.proxy-table .small-actions{flex-wrap:nowrap;justify-content:flex-end}.proxy-table .actions-heading{text-align:right}.proxy-table-wrap:focus-visible{outline:3px solid #75b6a5;outline-offset:3px}@media(max-width:700px){.proxy-table td,.proxy-table th{padding:12px}.content-list .domain-name{font-size:14px}.content-list .card{padding:18px}}
+
+.protocol-badge{display:inline-block;font-size:12px;font-weight:600;letter-spacing:.3px;border-radius:6px;padding:4px 8px;white-space:nowrap}.protocol-badge.http{background:#edf1f5;color:#405465}.protocol-badge.https{background:#e8f2ff;color:#2363a1}
+
+.proxy-table .protocol-col{width:7%}.proxy-table .address-col{width:18%}.proxy-table .port-col{width:8%}.proxy-table .status-col{width:7%}.proxy-table .actions-col{width:12%}.proxy-table th,.proxy-table td{padding:12px}.proxy-table .group-heading th{font-weight:600;color:#405465}.proxy-table .target-start{border-left:1px solid #e6ebee}.target-port{background:#eef2f5;color:#405465}.endpoint-fields{border:1px solid #e3e9ed;border-radius:10px;margin:18px 0;padding:4px 16px 14px;min-width:0}.endpoint-fields legend{padding:0 8px;font-size:14px;font-weight:600;color:#405465}.endpoint-row{display:grid;grid-template-columns:110px minmax(0,1fr) 110px;gap:14px}.endpoint-row label{min-width:0}.endpoint-fields p{margin-bottom:0}@media(max-width:600px){.endpoint-row{grid-template-columns:85px minmax(0,1fr);gap:10px}.endpoint-row label:last-child{grid-column:2}.endpoint-fields{padding:4px 10px 12px}}
+
+.proxy-table .name-col{width:15%}.route-name{display:block;font-size:14px;font-weight:600;overflow-wrap:anywhere;white-space:pre-wrap}.route-name.unnamed{color:#9aa5af;font-weight:400}

diff --git a/web/src/proxy-address.ts b/web/src/proxy-address.ts
@@ -1,0 +1,16 @@
+export type TargetAddress = {scheme:string;address:string;port:number}
+
+export function splitTarget(value:string):TargetAddress {
+  const url=new URL(value)
+  return {scheme:url.protocol.slice(0,-1),address:url.hostname.replace(/^\[|\]$/g,''),port:Number(url.port || (url.protocol==='https:'?443:80))}
+}
+
+export function joinTarget(target:TargetAddress):string {
+  const address=target.address.trim().replace(/^\[|\]$/g,'')
+  if (!address || /[\s/@?#]/.test(address)) throw new Error('目标地址只填写 IP 或域名，不包含协议、端口或路径。')
+  if (!['http','https'].includes(target.scheme) || !Number.isInteger(target.port) || target.port<1 || target.port>65535) throw new Error('目标端口需在 1–65535 之间。')
+  const host=address.includes(':')?`[${address}]`:address
+  const result=`${target.scheme}://${host}:${target.port}`
+  try {new URL(result)} catch {throw new Error('请填写有效的目标 IP 或域名。')}
+  return result
+}

diff --git a/web/src/api-response.ts b/web/src/api-response.ts
@@ -1,0 +1,19 @@
+export async function readAPIResponse<T>(response: Response, path: string): Promise<T> {
+  const text = await response.text()
+  let result: any
+  try {
+    result = JSON.parse(text)
+  } catch {
+    if (response.status === 404 && path === '/proxy/config') {
+      throw new Error('Caddy 配置查看接口不存在（HTTP 404）。请更新并重启 NetLite 后端，确保前后端版本一致。')
+    }
+    throw new Error(`接口返回了非 JSON 响应（HTTP ${response.status}）。请检查 NetLite 后端及反向代理配置。`)
+  }
+  if (!response.ok) {
+    if (response.status === 404 && path === '/proxy/config') {
+      throw new Error('Caddy 配置查看接口不存在（HTTP 404）。请更新并重启 NetLite 后端，确保前后端版本一致。')
+    }
+    throw new Error(typeof result?.error === 'string' ? result.error : `请求失败（HTTP ${response.status}）`)
+  }
+  return result as T
+}

diff --git a/internal/store/store_test.go b/internal/store/store_test.go
@@ -2,6 +2,7 @@ package store
 
 import (
 	"errors"
+	"netlite/internal/model"
 	"path/filepath"
 	"testing"
 )
@@ -16,6 +17,7 @@ func TestPersistenceAndRevisionConflict(t *testing.T) {
 	if e != nil {
 		t.Fatal(e)
 	}
+	c.Routes = []model.Route{{ID: "app", Name: "相册 · 家庭照片", Domain: "photos.example.com", Scheme: "http", Port: 18080, Upstream: "http://127.0.0.1:8080", Enabled: true}}
 	saved, e := s.Save(c)
 	if e != nil || saved.Revision != 1 {
 		t.Fatalf("save: %v", e)
@@ -30,7 +32,34 @@ func TestPersistenceAndRevisionConflict(t *testing.T) {
 	}
 	defer s.DB.Close()
 	c, e = s.Load()
-	if e != nil || c.Revision != 1 {
+	if e != nil || c.Revision != 1 || len(c.Routes) != 1 || c.Routes[0].Name != "相册 · 家庭照片" {
 		t.Fatal("not persisted")
+	}
+}
+
+func TestLegacyRouteWithoutName(t *testing.T) {
+	s, e := Open(filepath.Join(t.TempDir(), "legacy.db"))
+	if e != nil {
+		t.Fatal(e)
+	}
+	defer s.DB.Close()
+	_, e = s.DB.Exec(`UPDATE config SET body='{"revision":0,"routes":[{"id":"old","domain":"app.example.com","scheme":"http","port":18080,"upstream":"http://127.0.0.1:8080","enabled":true}],"certificates":[],"ddns":[]}' WHERE id=1`)
+	if e != nil {
+		t.Fatal(e)
+	}
+	c, e := s.Load()
+	if e != nil {
+		t.Fatal(e)
+	}
+	if len(c.Routes) != 1 || c.Routes[0].Name != "" || c.Routes[0].Domain != "app.example.com" {
+		t.Fatal("legacy route changed")
+	}
+	c.Routes[0].Name = "旧规则备注"
+	if _, e = s.Save(c); e != nil {
+		t.Fatal(e)
+	}
+	c, e = s.Load()
+	if e != nil || c.Routes[0].Name != "旧规则备注" {
+		t.Fatal("name was not saved")
 	}
 }

diff --git a/internal/proxy/view.go b/internal/proxy/view.go
@@ -1,0 +1,55 @@
+package proxy
+
+import (
+	"encoding/json"
+	"netlite/internal/model"
+	"os"
+	"path/filepath"
+	"strings"
+)
+
+// Configuration exposes only the generated draft and last persisted checkpoint.
+// It never expands credential environment references or queries another process.
+func (c *Caddy) Configuration(cfg model.Config) (map[string]any, error) {
+	draft, err := c.Render(cfg)
+	if err != nil {
+		return nil, err
+	}
+	var d, a any
+	if err = json.Unmarshal(draft, &d); err != nil {
+		return nil, err
+	}
+	applied, err := os.ReadFile(filepath.Join(c.Data, "applied.json"))
+	if err != nil && !os.IsNotExist(err) {
+		return nil, err
+	}
+	if len(applied) > 0 {
+		if err = json.Unmarshal(applied, &a); err != nil {
+			return nil, err
+		}
+	}
+	return map[string]any{"draft": redact(d), "applied": redact(a)}, nil
+}
+
+func redact(v any) any {
+	switch value := v.(type) {
+	case map[string]any:
+		for key, item := range value {
+			name := strings.ToLower(key)
+			sensitive := strings.Contains(name, "token") || strings.Contains(name, "password") || strings.Contains(name, "secret") || strings.Contains(name, "private_key") || name == "api_key"
+			if sensitive {
+				if s, ok := item.(string); ok && strings.HasPrefix(s, "{env.") && strings.HasSuffix(s, "}") {
+					continue
+				}
+				value[key] = "[REDACTED]"
+			} else {
+				value[key] = redact(item)
+			}
+		}
+	case []any:
+		for i, item := range value {
+			value[i] = redact(item)
+		}
+	}
+	return v
+}

diff --git a/internal/proxy/view_test.go b/internal/proxy/view_test.go
@@ -1,0 +1,38 @@
+package proxy
+
+import (
+	"encoding/json"
+	"netlite/internal/model"
+	"os"
+	"path/filepath"
+	"strings"
+	"testing"
+)
+
+func TestConfigurationRedactsCheckpointAndKeepsDraft(t *testing.T) {
+	c := New("unused", t.TempDir(), "127.0.0.1:20190")
+	cfg := model.Config{Certificates: []model.Certificate{{Domains: []string{"*.example.com"}, Mode: "dns", Provider: "cloudflare", TokenEnv: "CF_TOKEN"}}}
+	view, err := c.Configuration(cfg)
+	if err != nil {
+		t.Fatal(err)
+	}
+	if view["applied"] != nil {
+		t.Fatal("unexpected checkpoint")
+	}
+	err = os.WriteFile(filepath.Join(c.Data, "applied.json"), []byte(`{"apps":{"tls":{"api_token":"live-secret","nested":[{"password":"hidden"}]}}}`), 0600)
+	if err != nil {
+		t.Fatal(err)
+	}
+	view, err = c.Configuration(cfg)
+	if err != nil {
+		t.Fatal(err)
+	}
+	b, _ := json.Marshal(view)
+	text := string(b)
+	if strings.Contains(text, "live-secret") || strings.Contains(text, "hidden") {
+		t.Fatal("credential leaked")
+	}
+	if !strings.Contains(text, "{env.CF_TOKEN}") || !strings.Contains(text, "[REDACTED]") {
+		t.Fatal("incorrect config view")
+	}
+}

diff --git a/cmd/netlite/main.go b/cmd/netlite/main.go
@@ -177,6 +177,21 @@ func run() error {
 			}
 			respond(w, 200, c)
 		})
+		r.Get("/proxy/config", func(w http.ResponseWriter, r *http.Request) {
+			configMu.Lock()
+			defer configMu.Unlock()
+			cfg, err := s.Load()
+			if err != nil {
+				fail(w, 500, err)
+				return
+			}
+			view, err := engine.Configuration(cfg)
+			if err != nil {
+				fail(w, 500, fmt.Errorf("cannot read Caddy configuration"))
+				return
+			}
+			respond(w, 200, view)
+		})
 		r.Post("/proxy/validate", func(w http.ResponseWriter, r *http.Request) {
 			c, e := s.Load()
 			if e == nil {

diff --git a/internal/model/model.go b/internal/model/model.go
@@ -16,6 +16,7 @@ type Config struct {
 }
 type Route struct {
 	ID            string `json:"id"`
+	Name          string `json:"name"`
 	Domain        string `json:"domain"`
 	Port          int    `json:"port"`
 	Scheme        string `json:"scheme"`

diff --git a/docs/VALIDATION.md b/docs/VALIDATION.md
@@ -20,3 +20,13 @@ Cloudflare 行为通过模拟 HTTP API 测试：只 PATCH content，保留其他
 未验证：fnOS 实机安装、目录权限、启动/停止/升级/卸载；真实 Cloudflare DDNS、ACME DNS-01 泛域名签发和续期；ARM、Docker、DSM。安装包构建成功不等同于这些项通过。
 
 详见 FPK.md 的实机验收列表。界面截图：preview.png。
+
+0.1.1 UI 验证：添加/编辑弹窗、保存自动关闭并更新列表、取消、Escape、首次输入框焦点、删除确认、证书与 DDNS 弹窗、Caddy 草稿/已应用查看均已浏览器验证。配置查看脱敏单元测试与 Go 测试、静态检查、代理集成测试、前端构建通过。新版 FPK 已生成；仍未进行 fnOS 实机升级验证。
+
+代理规则表格验证：访问域名加粗、访问端口高亮、协议弱化、目标服务/状态/操作分列；桌面与 390px 窄屏横向滚动已验证，添加与编辑保留弹窗。前端类型检查及构建通过，FPK 已重新打包并验证归档权限和 checksum。
+
+协议列优化：访问域名、访问协议、访问端口、目标服务地址、状态、操作六列；HTTP/HTTPS 独立标签，目标显示完整 URL。前端构建和浏览器显示验证通过，FPK 已更新。
+
+对称布局验证：弹窗访问端/目标端上下排列，每组协议、地址、端口；表格按相同顺序左右分组。浏览器已验证保存、重新编辑、目标 HTTPS 与 IPv6、访问 HTTPS 时显示证书选择、取消及 390px 弹窗。npm --prefix web test 的 4 项地址转换测试通过，覆盖 IPv6、默认端口与非法地址/端口；前端类型检查、构建及 FPK 归档核验通过。
+
+代理名称验证：name 可选，表格首列和添加/编辑弹窗显示名称 / 备注；浏览器验证中文名称保存、刷新、重新编辑和旧规则空名称。SQLite 重启持久化及缺少 name 的旧配置兼容测试通过；go test ./...、go vet ./...、前端构建、真实 Caddy 集成验证通过，FPK 已重新生成并核验。

diff --git a/docs/API.md b/docs/API.md
@@ -18,7 +18,7 @@ PUT 是全量配置更新；反代/证书仅在 apply 生效，DDNS 的 enabled 
 ~~~json
 {
   "revision": 0,
-  "routes": [{"id":"app","domain":"app.example.com","port":18443,"scheme":"https","upstream":"http://127.0.0.1:8080","certificate_id":"wildcard","enabled":true}],
+  "routes": [{"id":"app","name":"家庭相册","domain":"app.example.com","port":18443,"scheme":"https","upstream":"http://127.0.0.1:8080","certificate_id":"wildcard","enabled":true}],
   "certificates": [{"id":"wildcard","domains":["*.example.com","example.com"],"mode":"dns","email":"you@example.com","provider":"cloudflare","token_env":"NETLITE_CF_TOKEN","staging":true}],
   "ddns": [{"id":"home","provider":"cloudflare","zone_id":"replace-zone-id","record_id":"replace-record-id","name":"app.example.com","type":"A","ip":"","token_env":"NETLITE_CF_TOKEN","interval_seconds":300,"enabled":false}]
 }
@@ -27,3 +27,7 @@ PUT 是全量配置更新；反代/证书仅在 apply 生效，DDNS 的 enabled 
 配置不包含密钥。域名使用小写 ASCII（国际域名请用 Punycode），泛域名仅接受最左 *.，不提供任意引擎配置透传。默认私有管理端口不能作为代理端口；上游只接受无路径的 HTTP(S) URL。
 
 证书模式 internal / acme / dns；当前 dns provider=cloudflare。staging=false 使用 Let's Encrypt 正式 CA，默认界面 staging=true。
+
+GET /api/proxy/config：鉴权后查看 Caddy 配置草稿及最近成功应用的配置；无已应用配置时 applied=null，凭据值隐藏，仅保留环境变量引用。
+
+代理规则的 `name` 为可选名称 / 备注，仅用于管理展示，不参与代理匹配；旧配置缺省时为空，保存后持久化到 SQLite。
